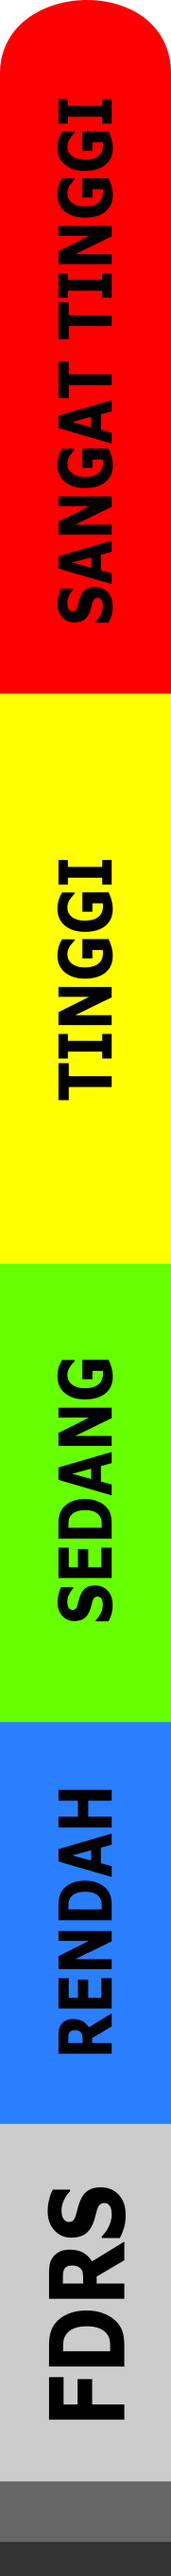
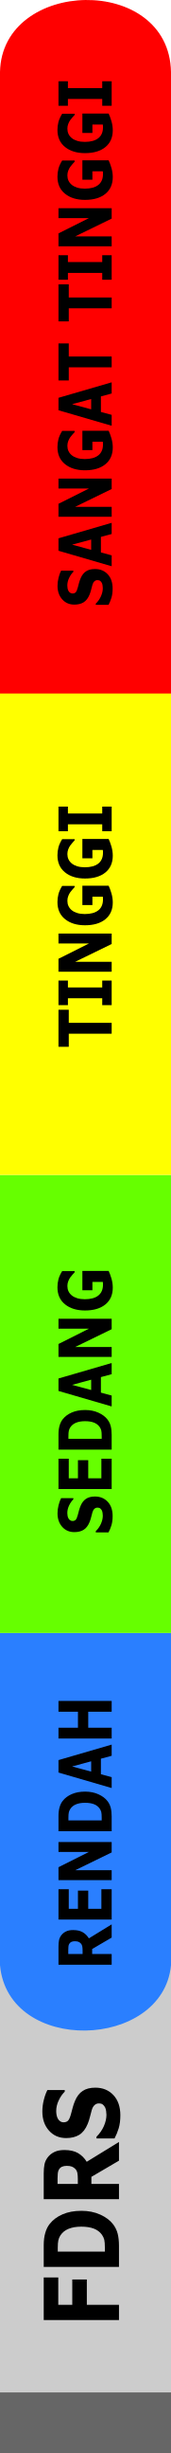
oke

diff --git a/index.html b/index.html
@@ -219,6 +219,28 @@
             color: rgb(253, 253, 253);
         }
 
+        .text-hotspotred {
+            margin-left: 20px;
+            text-align: center;
+            font-size: 20px;
+            color: rgb(187, 38, 38);
+        }
+
+        .text-hotspotgreen {
+            margin-left: 20px;
+            text-align: center;
+            font-size: 20px;
+            color: rgb(156, 146, 1);
+        }
+        .text-hotspotblue {
+            margin-left: 35px;
+            text-align: center;
+            font-size: 20px;
+            color: rgb(20, 155, 173);
+            letter-spacing: 2px;
+            word-spacing: 40px;
+        }
+
         .text-tanggal {
             margin-left: 0px;
             letter-spacing: 2px;
@@ -257,9 +279,9 @@
         /* .legend {
             line-height: 18px;
             color: #555;
-        }
+        } */
 
-        .legend i {
+        /* .legend i {
             width: 18px;
             height: 15px;
             float: left;
@@ -271,12 +293,24 @@
 
         .info {
             padding: 5px 6px;
-            font: 10px/16px Arial, Helvetica, sans-serif;
+            font: 15px/20px Arial, Helvetica, sans-serif;
+            background: rgba(250, 249, 249, 0.8);
+            box-shadow: 0 0 15px rgba(0, 0, 0, 0.2);
+            border-radius: 5px;
+            opacity: 70%;
+        }
+
+        .info {
+            padding: 5px 6px;
+            font-size: 12px;
             background: rgba(250, 249, 249, 0.8);
             box-shadow: 0 0 15px rgba(0, 0, 0, 0.2);
             border-radius: 5px;
             opacity: 80%;
         }
+
+
+
 
         .auto {
             display: block;
@@ -462,6 +496,8 @@
                     <p class="text-slider"> <b>Prakiraan Index FDRS H+ : <span id="demo"> </span></b>  </p>
                     <input onchange='setImage(this)' type="range" min="0" max="7" value="0" step="1" id="myRange"
                     class="slider" />
+
+
                     <img id='garis_slider' src='img/GARIS_SLIDER7.png' class="imageslider" />
                     <!-- <input type="range" min="0" max="7" value="1" class="slider" id="myRange">
                     <p class="text-keterangan"> Prakiraan H+ : <span id="demo"> </span></p> -->
@@ -768,13 +804,16 @@
                 legend.onAdd = function (map) {
 
                     var div = L.DomUtil.create('div', 'info legend'),
-                        grades = ["<b>Titik Hotspot (Sumber:LAPAN) </b>"],
+                        grades = ["<b>Jumlah Hotspot (Sumber:LAPAN)</b>"],
+                        grades_2 = ["<b><span class ='text-hotspotred' id='displayCount9'> </span></b>"]
+                        grades_3 = ["<b><span class ='text-hotspotgreen' id='displayCount8'> </span></b>"]
+                        grades_4 = ["<b><span class ='text-hotspotblue' id='displayCount7'> </span></b>"]                
                         labels = ['img/Hotspot8.png'];
 
                     // loop through our density intervals and generate a label with a colored square for each interval
                     for (var j = 0; j < grades.length; j++) {
                         div.innerHTML +=
-                            grades[j] + '<br>' + (" <img src=" + labels[j] + " height='45' width='138'>");
+                            grades[j]+"<br>"+ grades_4[j] + grades_3[j] + grades_2[j] + ("<center><img src=" + labels[j] + " height='45' width='138'></center>") ;
                     }
 
                     return div;
@@ -792,7 +831,7 @@
                     // loop through our density intervals and generate a label with a colored square for each interval
                     for (var i = 0; i < grades.length; i++) {
                         div.innerHTML +=
-                            ("<img src=" + labels[i] + " height='290' width='20'>" + '<br>');
+                            ("<img src=" + labels[i] + " height='265' width='18'>" + '<br>');
                     }
 
                     return div;
@@ -853,6 +892,10 @@
                 }
                 hotspotData = getJSONValue(jsonData)
                 var hotspotDataJSON = JSON.parse(hotspotData)
+
+               
+
+                
 
                 var jsondatafdrs = 'data/GSMAP_20200405_FIX_1.json';
                 function getJSONValue(fileJSON) {
@@ -932,6 +975,33 @@
                     if (kepercayaan > 8) { hotspotLayerLebih70.addLayer(marker).addTo(map);}
                     else { }
                 }
+
+               
+
+                function getCount(kepercayaan) {
+                var count = 0;
+                for (m = 0; m < hotspotDataJSON.length; m++) {
+                if (hotspotDataJSON[m].Kepercayaan == kepercayaan) {count++;
+                     }
+                    }
+                 return count;
+                }
+            
+                var jumlah_hotspot_9 = getCount(9)
+                console.log(jumlah_hotspot_9)
+                var displayCount9 = document.getElementById("displayCount9")
+                displayCount9.innerHTML = jumlah_hotspot_9
+
+                var jumlah_hotspot_8 = getCount(8)
+                console.log(jumlah_hotspot_8)
+                var displayCount8 = document.getElementById("displayCount8")
+                displayCount8.innerHTML = jumlah_hotspot_8
+
+                var jumlah_hotspot_7 = getCount(7)
+                console.log(jumlah_hotspot_7)
+                var displayCount7 = document.getElementById("displayCount7")
+                displayCount7.innerHTML = jumlah_hotspot_7
+
 // ============================================================ASEAN===============================================================
                 // for (i = 0; i < hotspotDataJSON.length; i++) {
                 //     var kepercayaan = parseInt(hotspotDataJSON[i].Kepercayaan)
@@ -1081,7 +1151,7 @@
                     new L.LatLng(27.25, 148.15)
                 )
 
-                var LayerFDRS_ffmc = L.imageOverlay(imageUrl_ffmc, imageBounds_ffmc, { zindex: 900 })//.addTo(map);
+                var LayerFDRS_ffmc = L.imageOverlay(imageUrl_ffmc, imageBounds_ffmc, { zindex: 900 }).addTo(map);
                 var LayerFDRS_dmc = L.imageOverlay(imageUrl_dmc, imageBounds_dmc, { zindex: 900 })//.addTo(map);
                 var LayerFDRS_dc = L.imageOverlay(imageUrl_dc, imageBounds_dc, { zindex: 900 })//.addTo(map);
                 var LayerFDRS_fwi = L.imageOverlay(imageUrl_fwi, imageBounds_fwi, { zindex: 900 })//.addTo(map);
@@ -1110,12 +1180,12 @@
                     "FWI": LayerFDRS_fwi,
                     "BUI": LayerFDRS_bui,
                     "ISI": LayerFDRS_isi,
-                    "PREC": LayerFDRS_rain,
+                    // "PREC": LayerFDRS_rain,
 
                     "<img src='img/hs_rendah.png'/> <span class='my-layer-item'>0-29%</span>": hotspotLayerKurang30,
                     "<img src='img/hs_sedang.png'/> <span class='my-layer-item'>30-79%</span>": hotspotLayerKurang70,
                     "<img src='img/hs_tinggi.png'/> <span class='my-layer-item'>80-100%</span>": hotspotLayerLebih70,
-                    "PREC100": PREC100,
+                    // "PREC100": PREC100,
                    
 
                 };
@@ -1284,11 +1354,6 @@
                             $('#change-imageKET').attr('src', 'img/ket_isi_1.png');
                         }
                     });
-
-
-
-
-
 
 
 
